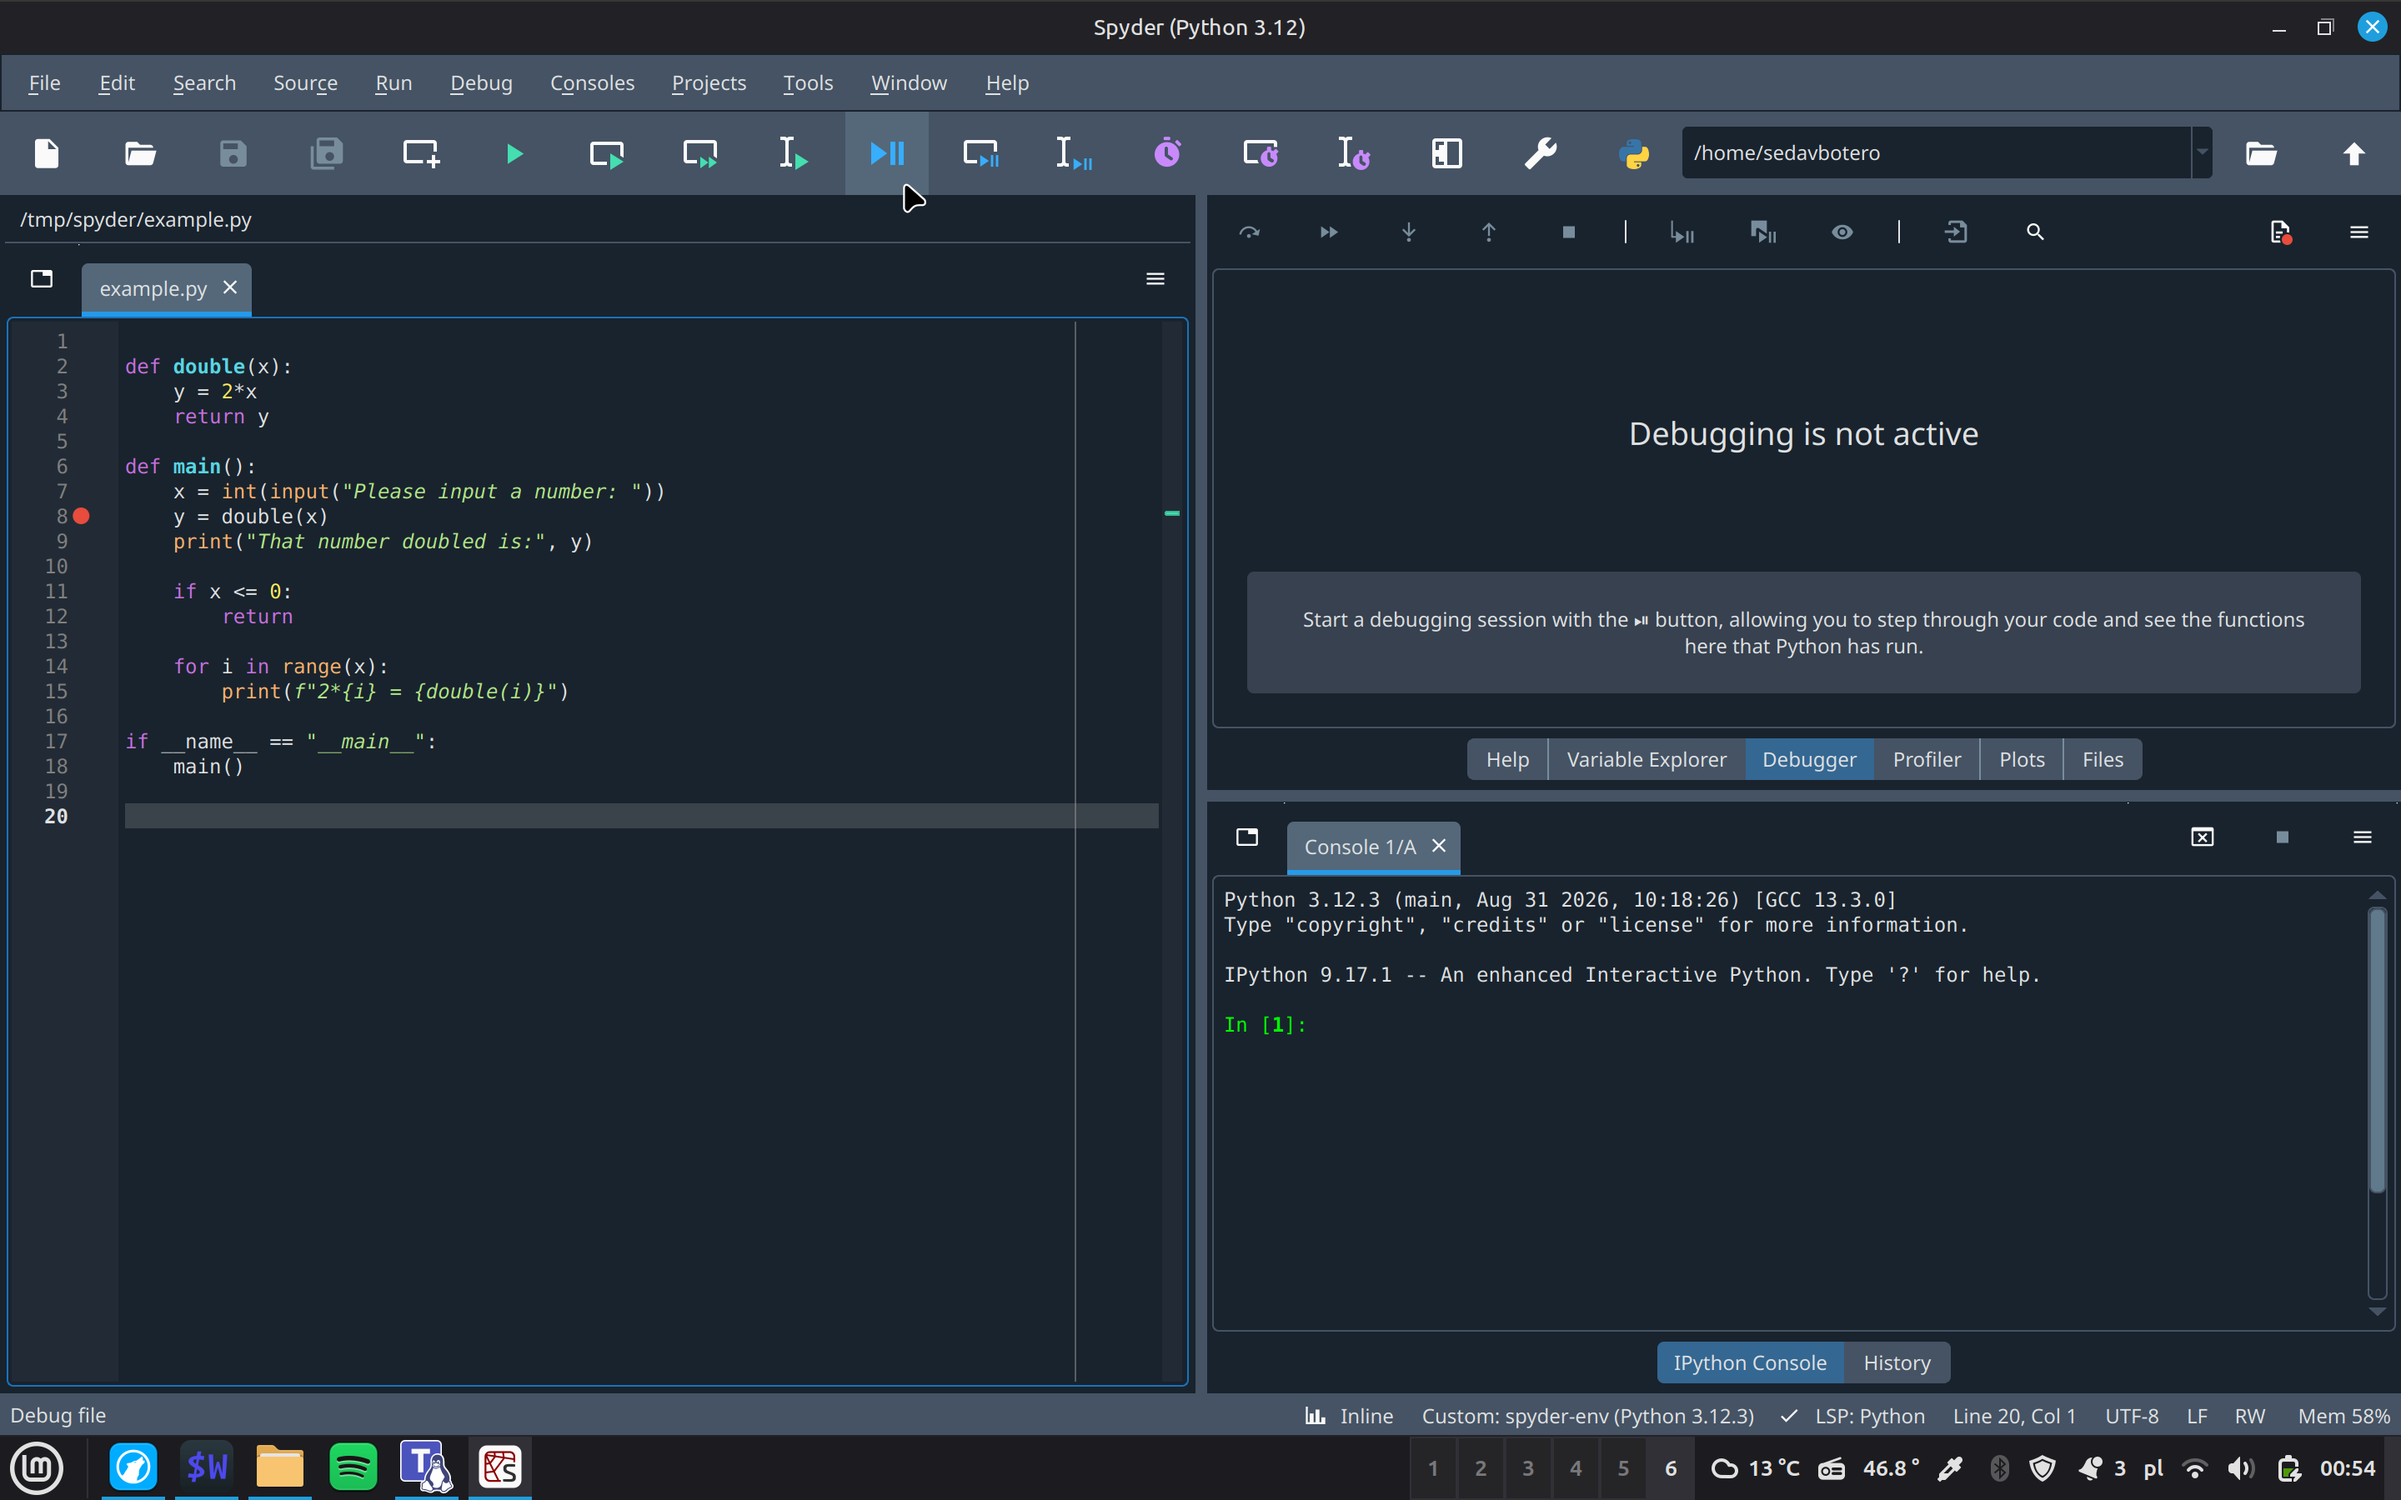
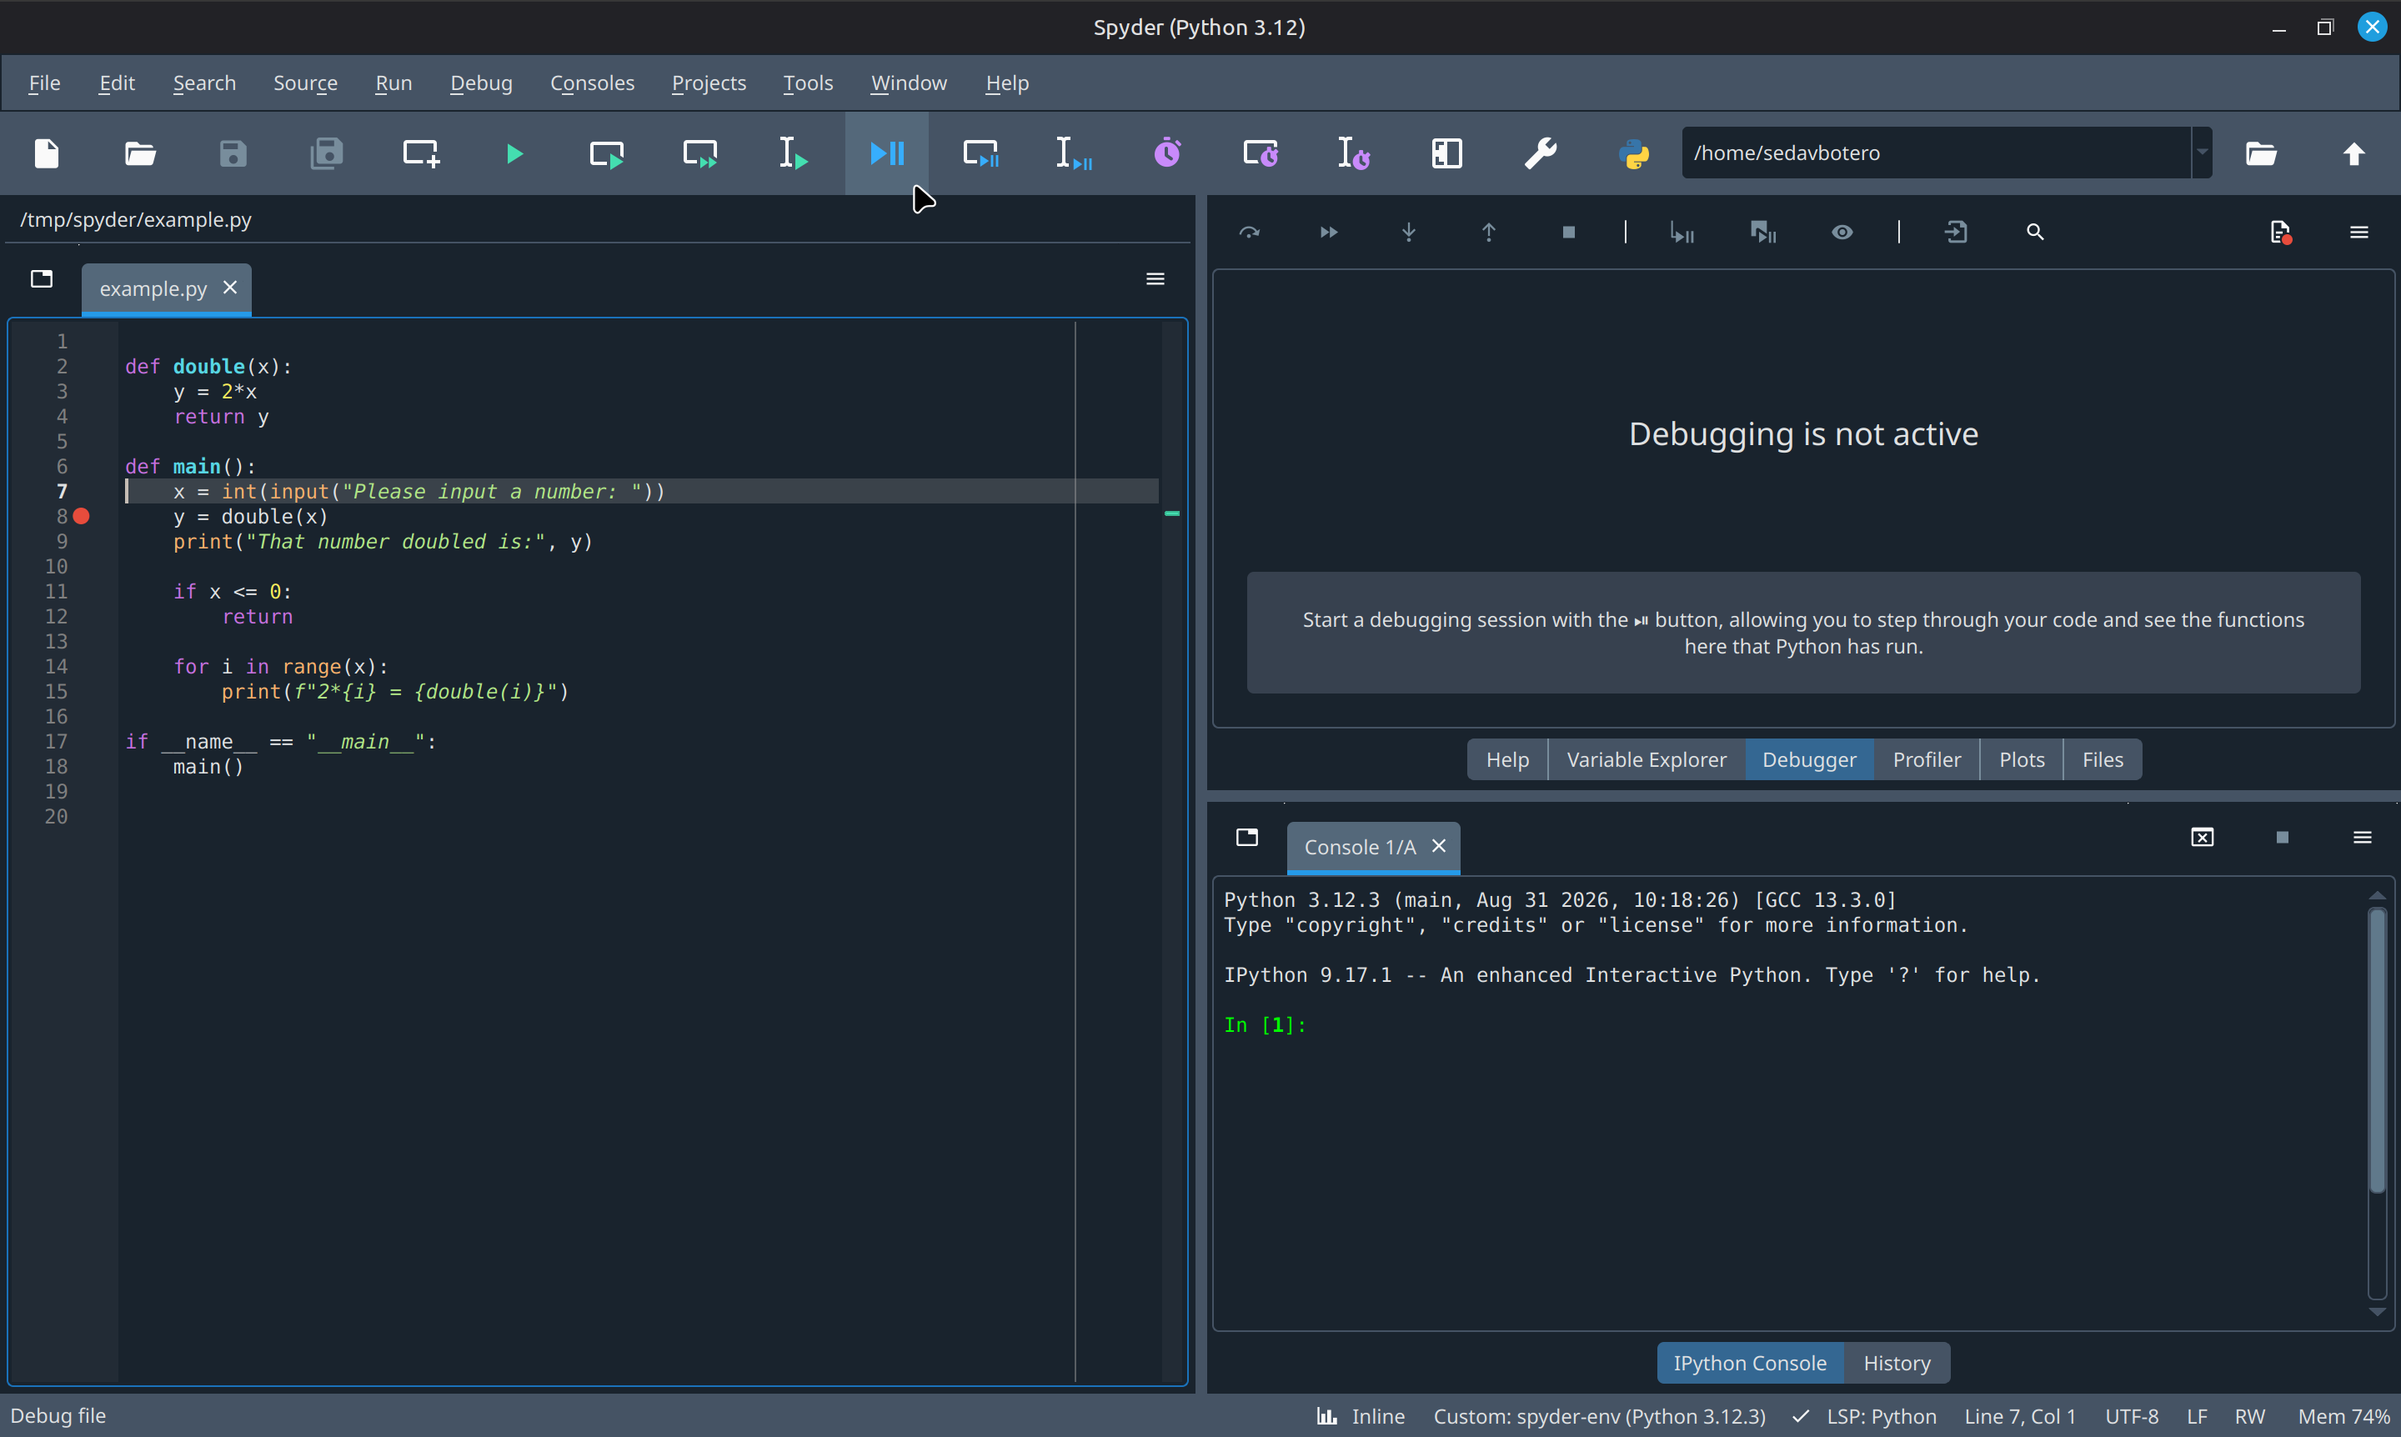
Finished first draft

diff --git a/samouczek.md b/samouczek.md
@@ -40,6 +40,8 @@ That number doubled is: 4
 
 ## Korzystanie z debuggera
 
+### Breakpoint i uruchomienie
+
 Korzystając z debuggera należy zacząć od ustawienia breakpointa. Jest to miejsce, w którym chcemy, by debugger zatrzymał wykonanie programu.
 Gdy najedziemy myszką nad pustą przestrzeń po prawej stronie numeru linii, pojawi się czerwona kropka. Klikając myszą możemy zaznaczyć breakpoint
 
@@ -50,3 +52,47 @@ Następnie należy uruchomić proces debuggowania wybierając odpowiedni przycis
 ![](img/start_debug.png)
 
 W tym programie oczekujemy na input użytkownika, więc najpierw należy podać liczbę. Ja podam 3.
+
+### Sterowanie
+
+![](img/debug_blank_edited.png)
+
+Numerem **1** oznaczyłem panel przycisków.
+Najeżdżając myszą nad przycisk otrzymamy krótki opis działania przycisku. Oto rozwinięcie sensu tych przycisków:
+
+1. Debug current line - _aka Step over_ - Pozwala aktywnej lini kodu się wykonać, po czym przechodzi do następnej.
+2. Step into function or method - _aka Step into_ - Jeśli w aktywnej linii kodu jest jakaś funkcja bądź metoda, debugger wchodzi do niej i następną debuggowaną linią staje się pierwsza linia tej funkcji. W moim przykładzie sprawi to, że debugger przejdzie do 2 linii w pliku.
+3. Execute until function returns - _aka Step out_ - pozwala aktualnej funkcji się wykonać i zatrzymuje się dopiero w chwili wyjścia z funkcji. Jest to naturalny odpowiednik poprzedniego przycisku i pozwala wrócić z funkcji do której wstąpiliśmy.
+4. Execute until next breakpoint - Wykonuje program normalnie aż do trafienia na kolejny breakpoint. Przydatne gdy mamy kilka breakpointów, bądź jesteśmy w pętli i nie obchodzi nas nic aż do dotarcia do kolejnego breakpointu.
+5. Stop debugging - Kończy działanie debuggera
+
+### Stos wywołań
+
+Numerem **2** wyróżniłem okienko _Debugger stack_. W nim znajdziemy tzw. stos wywołań, czyli listę opisującą kolejne zagnieżdżone wywołania funkcji, które nas doprowadziły tam gdzie jesteśmy. Na załączonym obrazku widzimy, że jesteśmy na linii 8 `y = double(x)` w funkcji `main`, która została wywołana w linii 18.
+Okienko to będzie szczególnie przydatne gdy będziecie wywoływać dużo funkcji, np. przy programowaniu rekurencyjnym
+
+### Podglądanie zmiennych
+
+![](img/vars.png)
+
+Przeszedłem debuggerem do funkcji `double` i przeszedłem do jej końca. Następnie wybrałem okienko _Variable explorer_, gdzie wcześniej był _Debugger Stack_.
+
+_Variable explorer_ pozwala nam podejrzeć zmienne użyte w programie i ich wartości. Jest to bardzo ważne by zrozumieć co się psuje w naszych danych, dlatego osobiście polecam mieć to okienko wybrane przez większość czasu debuggowania.
+
+### Breakpoint warunkowy
+
+Czasem programując piszemy kod, który się psuje jedynie w szczególnych przypadkach, jak np. w ostatnim wykonaniu pętli. Przeklikiwanie 100 razy, by dojść do ostatniej itaracji pętli jest toporne i zniechęci nawet największego amatora debuggera. Tu z pomocą przychodzi breakpoint warunkowy, który pozwala nam powiązać z nim wyrażenie, które gdy prawdziwe, wywoła aktywację breakpointu.
+
+Ustawmy taki breakpoint na linii 15 tak, aby działał on jedynie, gdy i≥9.
+
+![](img/set_cond_brkpt.png)
+
+Ustawiamy kursor na 15 linii i przechodzimy do menu _Debug_ w górnym pasku, skąd wybieramy opcję Set/edit conditional breakpoint.
+
+![](img/cond.png)
+
+Tu wpisujemy oczekiwany warunek zatrzymania programu.
+
+Jeśli teraz odpalimy ponownie debugger a jako `x` podamy 10 debugger zatrzyma się dopiero w tym stanie:
+
+![](img/state_with_cond_brkpt.png)
